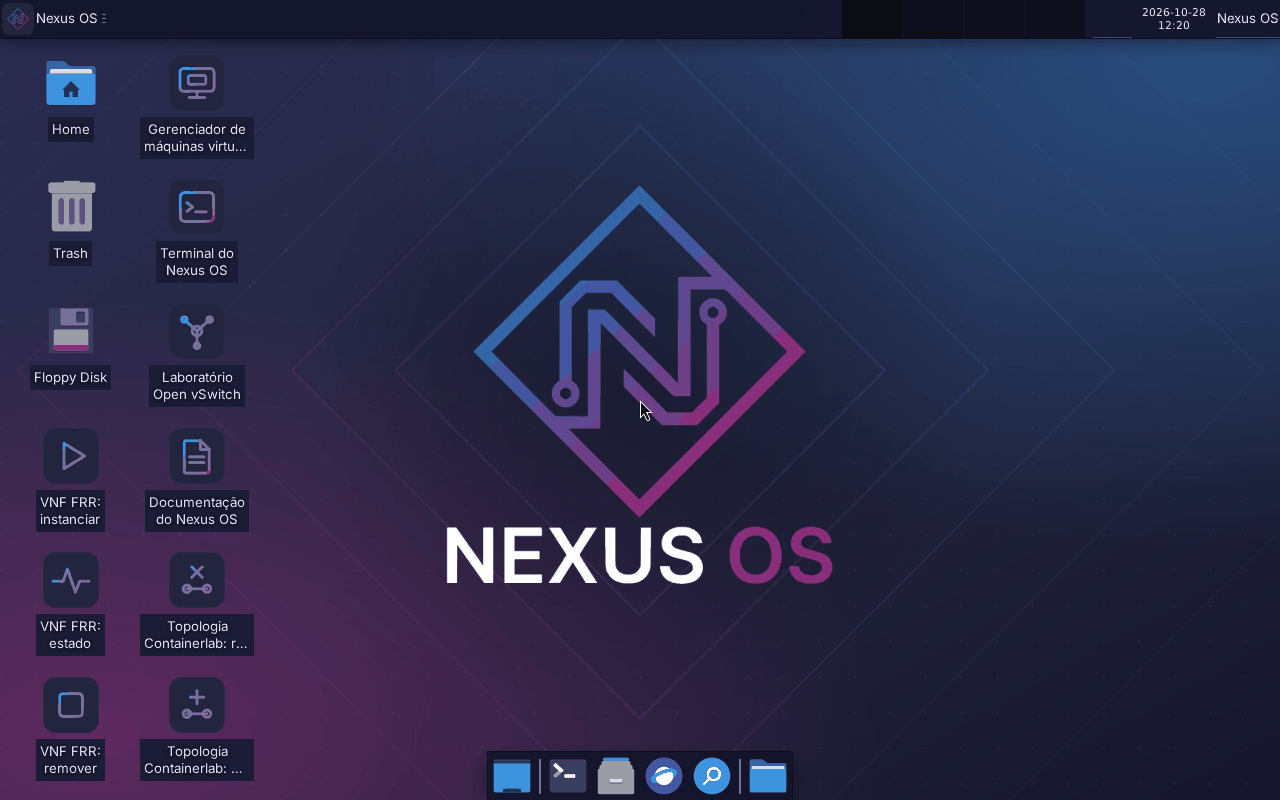
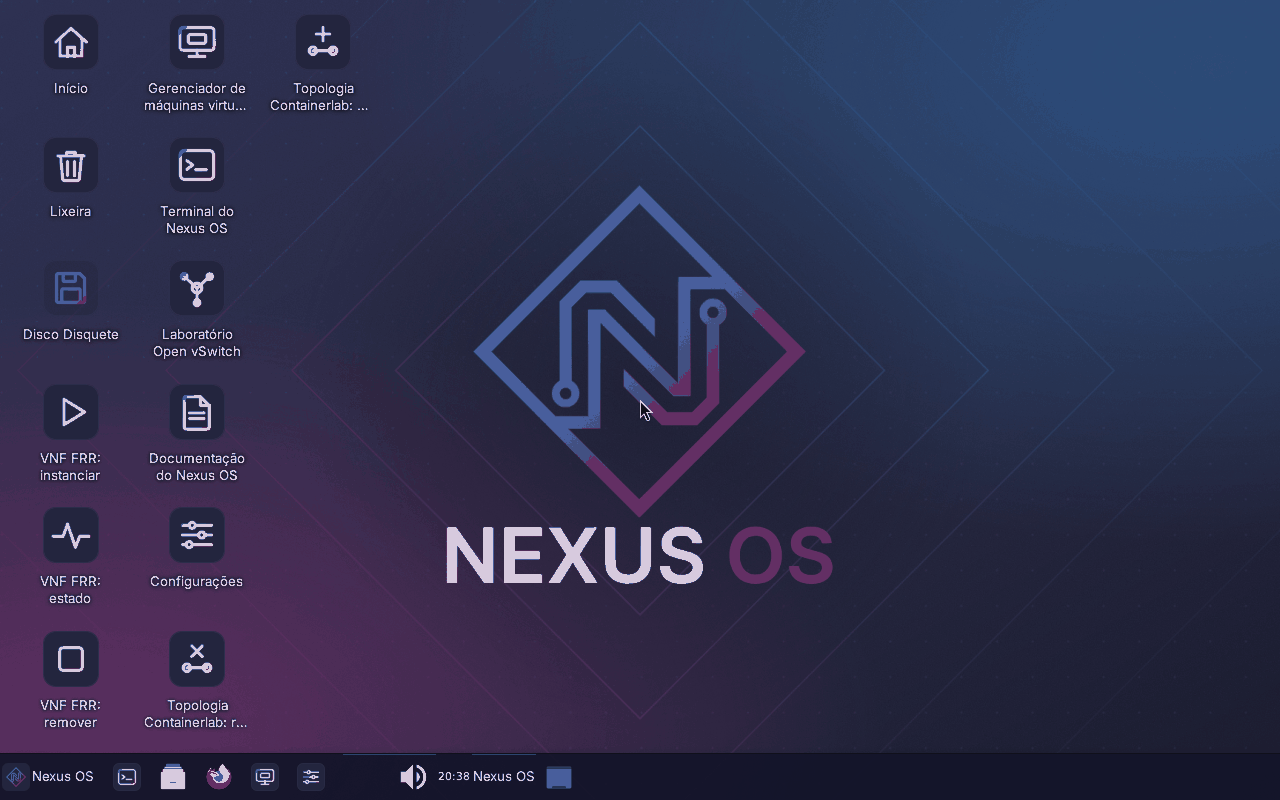
docs: RC2 da rodada 3 com requisitos medidos, capturas novas e tamanho da ISO (F3.17, F3.18)
ISO de 1773174784 bytes (build limpo de d9c40b8, SHA256 391734920c...), RAM
recomendada 2560 MiB, mínimo dos smokes 1792 MiB, sessão em 23 s e smoke desktop
sem KVM OK em 1196 s. rc2.md, requisitos.md, README, gui, branding, manual e
integracao-iso atualizados; capturas de login e sessão refeitas; manual e
checklist com 2560 MiB nos comandos de criação da VM.

Changed region(s): [[0.0, 0.0, 1.0, 1.0], [0.3438, 0.3438, 0.6562, 0.75], [0.2188, 0.0938, 0.2812, 0.1562]]

diff --git a/docs/rc2.md b/docs/rc2.md
@@ -1,23 +1,23 @@
 # RC2 do Nexus OS (F3.17 e F3.18)
 
-Segunda release candidate: a RC1 (núcleo da stack) mais o **ambiente gráfico** XFCE com login automático, os 9 atalhos dos componentes e a identidade visual do Nexus OS. Não há tag Git nesta fase: a tag é do congelamento da ISO (F4.6).
+Segunda release candidate: a RC1 (núcleo da stack) mais o **ambiente gráfico** XFCE com login automático, os 10 atalhos dos componentes, a identidade visual do Nexus OS, a barra única embaixo como a do Windows, o idioma português do Brasil e programas prontos para uso (LibreOffice, Wireshark, VLC, GIMP, Inkscape, KeePassXC e mais). Não há tag Git nesta fase: a tag é do congelamento da ISO (F4.6).
 
 ## Identificação
 
 | Item | Valor |
 | --- | --- |
 | Arquivo | `dist/nexus-os-rc2-amd64.iso` (cópia da ISO do build limpo, com `.sha256` regenerado para esse nome) |
-| Commit do build | `007f7ba0b53e74f4c16d4868cf0bbd1a1be768ad` (clone novo de `origin/marcos`) |
+| Commit do build | `d9c40b832848dd0bad96b66443f60ab00c3e968d` (clone novo de `origin/marcos`) |
 | Data | 2026-10-28 |
-| Tamanho | 1295843328 bytes |
[1 lines of base64/hex data omitted]
-| Tempo do build | 703 s, um comando (`sudo scripts/build-iso.sh`), terminou com `Build completed successfully` |
+| Tamanho | 1773174784 bytes |
[1 lines of base64/hex data omitted]
+| Tempo do build | 1164 s, um comando (`sudo scripts/build-iso.sh`), terminou com `Build completed successfully` |
 | Ambiente do build | Debian 13 em VM Hyper-V com KVM, 4 vCPU, 6 GB estáticos |
 | Onde fica | na máquina do responsável (VM de build, pasta `dist/` do clone, fora do Git) |
 
-Esta é a **segunda geração da RC2**: a primeira (commit `7ddf021`, SHA256 `0692c04a...`, 1268842496 bytes) tinha o tema Greybird, os ícones Tango e uma marca desenhada à parte; depois de testar a ISO numa VM do Hyper-V, a identidade foi refeita com a logo original, o tema Nexus-Dark, ícones Papirus-Dark e fonte Inter (F3.17), e o vídeo do Hyper-V Geração 1 passou a ser fixado no `/dev/dri/card0`. Todos os números abaixo são da ISO nova.
+Esta é a **terceira geração da RC2**. A primeira (commit `7ddf021`) tinha o tema Greybird e ícones Tango; a segunda (commit `007f7ba`, SHA256 `a21a7eb9...`, 1295843328 bytes) trouxe a logo original, o tema Nexus-Dark, os ícones Papirus-Dark e a fonte Inter. Depois de a segunda ser testada no Hyper-V Geração 1, a terceira refez a barra (uma só, embaixo, com a lista de janelas), criou o tema de ícones Nexus, tirou as faixas dos fundos, trocou o menu de boot, passou o sistema para português do Brasil com teclado ABNT2, fuso de Brasília e nome de máquina `nexus-os`, acrescentou os programas (veja [gui.md](gui.md), "Programas incluídos"), a documentação em HTML, o atalho Configurações e a tecla Print. Todos os números abaixo são da ISO nova.
 
-Os documentos desta pasta que entram na ISO (`/usr/share/nexus-os/docs`) são os do commit do build. `rc2.md` e `requisitos.md` (seção "Com ambiente gráfico") têm o SHA256 da ISO e por isso nascem depois dela: a ISO não os contém.
+Os documentos desta pasta que entram na ISO (`/usr/share/nexus-os/docs`) são os do commit do build. `rc2.md` e `requisitos.md` (seção "Com ambiente gráfico") têm o SHA256 da ISO e por isso nascem depois dela: a ISO não os contém. Depois do build entraram só três ajustes de teste (`ce73989`, e os commits que dão bit de execução aos testes e sobem a espera por atalho para 300 s): a ISO tem a cópia anterior desses scripts, e o comportamento é o mesmo.
 
 ## Build limpo com um comando
 
@@ -25,9 +25,9 @@ Clone novo de `origin/marcos` em pasta nova, depois só `sudo scripts/build-iso.
 
 | Item | Valor |
 | --- | --- |
-| Tempo | 703 s (com o clone) |
-| Tamanho | 1295843328 bytes, +374145024 sobre a RC1 (921698304) |
-| Origem do aumento | desktop XFCE, `firefox-esr`, `virt-manager`, `lightdm` e dependências (+338427904 na F3.15 e F3.16) e a identidade visual (+35717120: tema de ícones `papirus-icon-theme`, fonte `fonts-inter` e as imagens, veja [branding.md](branding.md)) |
+| Tempo | 1164 s (com o clone) |
+| Tamanho | 1773174784 bytes, +851476480 sobre a RC1 (921698304) e +477331456 sobre a RC2 anterior (1295843328) |
+| Origem do aumento sobre a RC2 anterior | LibreOffice, Wireshark, VLC, GIMP, Inkscape, KeePassXC, ferramentas de rede, pacotes de idioma e os demais de `nexus-desktop.list.chroot` ([gui.md](gui.md)); o tema de ícones Nexus e os fundos pesam pouco ([branding.md](branding.md)) |
 
 ## Validação da RC2
 
@@ -35,33 +35,35 @@ Todas as execuções abaixo são **com KVM**, exceto a indicada, na VM de build 
 
 | Teste | Resultado |
 | --- | --- |
-| `tests/run-fase3.sh dist/nexus-os-rc2-amd64.iso` | `OK: tests/run-fase3.sh (9 testes)` em 270 s: `lint-repo`, `docs`, `gui-spec`, `atalhos`, `identidade`, `iso` (36 s), `iso-smoke all`, `requisitos` e `manual` |
-| `iso-smoke all` dentro do `run-fase3.sh`, 4096 MiB | `OK: 8 teste(s) sem falha em 135 s` (`desktop` 50 s); repouso 1164 MiB, pico 1452 MiB |
-| `iso-smoke all`, `NEXUS_SMOKE_MEM=4096` (coleta do pico) | `OK: 8 teste(s) sem falha em 141 s` (`desktop` 53 s); pico 1439 MiB |
-| `iso-smoke all`, `NEXUS_SMOKE_MEM=2048` (RAM recomendada, validação) | `OK: 8 teste(s) sem falha em 129 s` (`desktop` 51 s); pico 1296 MiB |
-| `tests/manual.sh` | `OK: 12 bloco(s) do manual na ISO` em 93 s (8 blocos do núcleo e 4 do desktop) |
-| Smoke `desktop` **sem KVM** (`NEXUS_SMOKE_KVM=0 NEXUS_SMOKE_SMP=1 NEXUS_SMOKE_MEM=2048`) | `OK: 1 teste(s) sem falha em 505 s`, `desktop=244s`; repouso 811 MiB, pico 1303 MiB |
-| Mínimos de RAM e tempo até a sessão (20 s) | [requisitos.md](requisitos.md), seção "Com ambiente gráfico" |
+| `tests/run-fase3.sh dist/nexus-os-rc2-amd64.iso` | `OK: tests/run-fase3.sh (9 testes)`: `lint-repo`, `docs`, `gui-spec`, `atalhos`, `identidade`, `iso` (36 s), `iso-smoke all`, `requisitos` e `manual` |
+| `iso-smoke all` dentro do `run-fase3.sh`, 4096 MiB | `OK: 8 teste(s) sem falha em 135 s` (`desktop` 53 s); repouso 1127 MiB, pico 1786 MiB |
+| `iso-smoke all`, `NEXUS_SMOKE_MEM=4096` (coleta do pico) | `OK: 8 teste(s) sem falha em 181 s` (`desktop` 64 s); pico 1827 MiB |
+| `iso-smoke all`, `NEXUS_SMOKE_MEM=2560` (RAM recomendada, validação) | `OK: 8 teste(s) sem falha em 172 s` (`desktop` 66 s); pico 1722 MiB |
+| `tests/manual.sh` | `OK: 13 bloco(s) do manual na ISO` em 94 s |
+| Smoke `desktop` **sem KVM** (`NEXUS_SMOKE_KVM=0 NEXUS_SMOKE_SMP=1 NEXUS_SMOKE_MEM=2048`, espera por atalho de 300 s) | `OK: 1 teste(s) sem falha em 1196 s`, `desktop=782s`; repouso 836 MiB, pico 1707 MiB. Com a espera de 150 s o teste falhou: sem KVM o `nexus-vnf-up` passa de 150 s |
+| Smoke `rede` (QEMU com `-nic user`, script fora do repositório) | o NetworkManager pegou `10.0.2.15/24` por DHCP em `ens3`, rota padrão por `10.0.2.2`, DNS e `HTTP/1.1 200 OK` em `deb.debian.org`; nome da máquina `nexus-os` |
+| Menu de boot, BIOS (isolinux) e UEFI (GRUB, OVMF) | título "Nexus OS", logo e entradas em português; o boot inicia sozinho depois de 5 s |
+| Mínimos de RAM e tempo até a sessão (23 s) | [requisitos.md](requisitos.md), seção "Com ambiente gráfico" |
 
-Identidade visual na ISO: o smoke `desktop` confere o papel de parede padrão do `user` (`/usr/share/backgrounds/nexus-os/papel-de-parede.png`, lido pelo `xfconf-query` do monitor ativo), os temas GTK, de ícones e de janelas (Nexus-Dark, Papirus-Dark e Nexus-Dark), o título "Nexus OS" no menu e o nome completo "Nexus OS" do usuário. Capturas de tela da sessão e do login em [branding.md](branding.md).
+O smoke `desktop` confere, além do que já conferia: a barra única embaixo (`tasklist`, sem `pager`, uma área de trabalho, janela do `xfce4-panel` na parte de baixo da tela), o idioma `pt_BR.UTF-8`, o fuso `America/Sao_Paulo`, o teclado `br`, o nome da máquina `nexus-os`, a tela sem bloqueio, o programa padrão de `.md`, texto, PDF, imagem e HTML, a presença dos programas, o `docs-html`, o grupo `wireshark` e o `dumpcap`, a tecla Print e os 10 atalhos executados (incluindo documentação no Firefox e Configurações). Os temas conferidos são Nexus-Dark (GTK e janelas) e Nexus (ícones).
 
-Mutações: M1 (SVG com tag sem fechar), M2 (licença removida de `docs/branding.md`) e M5 (logo da ISO diferente da original de `assets/`) fazem o `tests/identidade.sh` falhar; M3 (`tests/desktop.sh` esperando outro papel de parede, por `--extra`) dá `FALHA: papel de parede do Nexus OS ausente`; M4 (comando inexistente num bloco do manual, feita na primeira geração da RC2) dá `FALHA: smoke com falhas: ... NEXUS-SMOKE-END manual 127`; e a remoção de uma linha numérica de `requisitos.md` faz o `tests/requisitos.sh` falhar.
-
-Ordem dos REDs, antes da implementação: `tests/identidade.sh` sem arquivos, `tests/requisitos.sh` e `tests/docs.sh` sem a seção nova e o smoke `desktop` na ISO anterior (`FALHA: papel de parede do Nexus OS ausente`). Os testes acharam três bugs: a chave errada do papel de parede do xfdesktop (o smoke passava, a captura mostrava o papel de parede do XFCE), o manual com a contagem antiga de 7 testes no `smoke.list` e o `lint-repo.sh` tratando o gerador em Python como shell. O teste na VM do Hyper-V Geração 1 achou o bug do vídeo (`lightdm` em laço, `Cannot run in framebuffer mode`), que nenhum teste em QEMU podia pegar e que o `20-hyperv.conf` corrige.
+Achados dos testes (não foram feitas mutações novas nesta geração): o `light-locker` vinha como recomendação do `lightdm` e o teste de tela sem bloqueio o pegou (o hook `0600` passou a removê-lo); o ID do Wireshark no `mimeapps.list` estava errado e foi corrigido pela conferência no chroot; o `shellcheck` acusou SC2015 em `tests/desktop.sh`; o `run-fase3.sh` falhou com `Permissão negada` porque três testes estavam sem bit de execução no Git (corrigido). Os REDs vieram antes: `tests/atalhos.sh`, `tests/identidade.sh` e `tests/docs.sh` falharam com `FALHA:` antes de qualquer implementação.
 
 ## Ambiente
 
-Debian 13 em VM Hyper-V com KVM (`/dev/kvm`), 4 vCPU, 6 GB de RAM estáticos; live-build do Debian 13; QEMU do Debian 13 com `-vga std`, `-nic none` e 2 vCPU no guest. Todas as medições são com KVM, salvo a linha "sem KVM".
+Debian 13 em VM Hyper-V com KVM (`/dev/kvm`), 4 vCPU, 6 GB de RAM estáticos; live-build do Debian 13; QEMU do Debian 13 com `-vga std`, `-nic none` (e `-nic user` só no teste de rede) e 2 vCPU no guest. Todas as medições são com KVM, salvo a linha "sem KVM".
 
 ## Limitações e riscos conhecidos
 
 - **`nexus-smoke.service` continua na RC2:** a unidade que executa como root o conteúdo de um CD `NEXUS_SMOKE` não foi removida. A decisão de removê-la ou condicioná-la é do congelamento da ISO (F4.6; issue 32).
-- A reprodução por uma segunda pessoa, a execução do roteiro humano do desktop (parte H de [checklist-teste-documentacao.md](checklist-teste-documentacao.md)) e a premissa 1 nas máquinas dos demais integrantes continuam pendentes. Nada desta RC conta como tal.
-- O desktop abriu numa VM do Hyper-V Geração 1 da primeira geração da RC2, mas só depois de a configuração de vídeo ser digitada à mão no console; a **ISO desta geração, com o `20-hyperv.conf`, ainda não foi iniciada no Hyper-V** (issue 55). VirtualBox, Geração 2 e vídeo real também não foram iniciados. O papel de parede foi conferido só no monitor `Virtual-1` do QEMU (issue 56).
-- Mínimo de RAM: com 1536 MiB o `all` passa, mas o `desktop` leva 82 s; com 1280, 1024 e 768 MiB falha. O `tests/iso.sh` chega ao `login:` com 512 MiB, sem provar a sessão gráfica.
-- Os fluxos interativos (clique nos ícones, terminal esperando Enter, VM criada pelo `virt-manager`) não foram exercitados: os atalhos foram lançados pelo `gtk-launch` com `NEXUS_ATALHO_TESTE=1`.
-- A barra da tela de login mostra o nome de máquina `debian` e o menu de boot (isolinux) ainda mostra "Debian GNU/Linux" e o capacete do live-build ([branding.md](branding.md), "Problemas conhecidos"; issue 57).
+- A reprodução por uma segunda pessoa e a execução do roteiro humano do desktop (parte H de [checklist-teste-documentacao.md](checklist-teste-documentacao.md)) continuam pendentes. Nada desta RC conta como tal.
+- Uma versão anterior da RC2 subiu sozinha no Hyper-V Geração 1, a 1080p em tela cheia e em janela de 1024x768; a **ISO desta geração ainda não foi iniciada no Hyper-V** (issue 55). VirtualBox, Geração 2 e vídeo real também não. O papel de parede foi conferido só no monitor `Virtual-1` do QEMU (issue 56).
+- Mínimo de RAM: com 1792 MiB o `all` passa, mas o `desktop` leva 202 s; com 1536, 1280 e 1024 MiB falha. A recomendada é 2560 MiB. O `tests/iso.sh` chega ao `login:` com 512 MiB, sem provar a sessão gráfica.
+- A ISO tem 1691 MiB: cabe em DVD e pendrive, não em CD.
+- Os fluxos interativos (clique nos ícones, terminal esperando Enter, VM criada pelo `virt-manager`, abrir os programas novos) não foram exercitados: os atalhos foram lançados pelo `gtk-launch` com `NEXUS_ATALHO_TESTE=1` e os programas só tiveram a presença conferida.
+- O Hyper-V precisa de `Connect-VMNetworkAdapter` para a VM ter internet ([manual.md](manual.md)); a ISO só foi testada com rede no QEMU.
+- A barra da tela de login mostra o relógio e o nome de máquina (agora `nexus-os`).
 - A RAM em repouso varia entre execuções (issue 33); o desligamento da live pede ENTER (issue 34).
 - A RC2 não tem tag Git: a tag é do congelamento.
 
-Falhas e limitações viram issues com o ID da tarefa no título: 54 (roteiro humano do desktop), 55 (Hyper-V e VirtualBox), 56 (papel de parede em outros monitores) e 57 (nome de máquina no login).
+Falhas e limitações viram issues com o ID da tarefa no título: 54 (roteiro humano do desktop), 55 (Hyper-V e VirtualBox), 56 (papel de parede em outros monitores) e 57 (nome de máquina no login, resolvido nesta geração: a máquina agora é `nexus-os`).

diff --git a/docs/requisitos.md b/docs/requisitos.md
@@ -21,43 +21,45 @@ Recomendação: **1536 MiB de RAM** e uma mídia (CD, DVD, pendrive ou ISO anexa
 
 ## Com ambiente gráfico
 
-Medido em 2026-10-28, **com KVM**, na ISO da RC2 (commit `007f7ba`, [rc2.md](rc2.md)), guest QEMU com 2 vCPU, `-vga std` e sem rede. As duas execuções completas do `nexus-smoke all` (8 testes, o último é o `desktop`) seguem o método abaixo: a primeira com 4096 MiB coleta o pico e a segunda, com a RAM recomendada, valida.
+Medido em 2026-10-28, **com KVM**, na ISO da RC2 (build limpo do commit `d9c40b8`, [rc2.md](rc2.md)), guest QEMU com 2 vCPU, `-vga std` e sem rede. As execuções completas do `nexus-smoke all` (8 testes, o último é o `desktop`) seguem o método abaixo: a primeira, com 4096 MiB, coleta o pico e a segunda, com a RAM recomendada, valida.
 
 | Item | Valor | Unidade | Como foi medido |
 | --- | --- | --- | --- |
-| Desktop: RAM em repouso | 1044 | MiB | média de duas execuções, cada uma com 3 leituras de `free -m` (`used`) a partir de 30 s depois de a sessão ficar ativa: 1043 e 1045 MiB |
-| Desktop: RAM de pico | 1439 | MiB | maior `used` durante `nexus-smoke all` com 4096 MiB (8 testes, amostrado a cada 5 s) |
-| Desktop: RAM recomendada | 2048 | MiB | `ceil((pico + 512) / 512) * 512`, validada com `NEXUS_SMOKE_MEM=2048` (abaixo) |
-| Desktop: disco do root em memória | 27 | MiB | `df -m /` (overlay sobre tmpfs; a live não usa disco do guest); o Docker segue com 193 MiB |
-| Desktop: ISO (bytes) | 1295843328 | bytes | tamanho do arquivo (1236 MiB) |
-| Desktop: diferença da ISO para a RC1 (bytes) | 374145024 | bytes | 1295843328 menos 921698304 (+40,6%) |
-| Desktop: tempo até a sessão (s) | 20 | s | início do último processo do desktop (`xfce4-session`, `xfce4-panel`, `xfwm4`, `xfdesktop`) em segundos de uptime do guest: 20,4 e 20,1 |
-| Desktop: mínimo de RAM do tests/iso.sh (MiB) | 512 | MiB | `NEXUS_ISO_MEM`: 1024, 768 e 512 chegam ao `login:` em 33 s; valores abaixo de 512 não foram testados |
-| Desktop: mínimo de RAM dos smokes (MiB) | 1536 | MiB | `NEXUS_SMOKE_MEM` com o `all`: 1536 passa; 1280, 1024 e 768 falham |
[1 lines of base64/hex data omitted]
+| Desktop: RAM em repouso | 1129 | MiB | média de duas execuções, cada uma com 3 leituras de `free -m` (`used`) a partir de 30 s depois de a sessão ficar ativa: 1140 e 1118 MiB |
+| Desktop: RAM de pico | 1827 | MiB | maior `used` durante `nexus-smoke all` com 4096 MiB (8 testes, amostrado a cada 5 s) |
+| Desktop: RAM recomendada | 2560 | MiB | `ceil((pico + 512) / 512) * 512`, validada com `NEXUS_SMOKE_MEM=2560` (abaixo) |
+| Desktop: disco do root em memória | 28 | MiB | `df -m /` (overlay sobre tmpfs; a live não usa disco do guest); o Docker segue com 193 MiB |
+| Desktop: ISO (bytes) | 1773174784 | bytes | tamanho do arquivo (1691 MiB) |
+| Desktop: diferença da ISO para a RC1 (bytes) | 851476480 | bytes | 1773174784 menos 921698304 (+92,4%) |
+| Desktop: tempo até a sessão (s) | 23 | s | início do último processo do desktop (`xfce4-session`, `xfce4-panel`, `xfwm4`, `xfdesktop`) em segundos de uptime do guest: 23,7 e 22,6 |
+| Desktop: mínimo de RAM do tests/iso.sh (MiB) | 512 | MiB | `NEXUS_ISO_MEM`: 1024, 768 e 512 chegam ao `login:` em 36 s; valores abaixo de 512 não foram testados |
+| Desktop: mínimo de RAM dos smokes (MiB) | 1792 | MiB | `NEXUS_SMOKE_MEM` com o `all`: 1792 passa (307 s, o `desktop` leva 202 s); 1536, 1280 e 1024 falham |
[1 lines of base64/hex data omitted]
 
-Recomendação com o desktop: **2048 MiB de RAM** para a VM e uma mídia de pelo menos 1236 MiB. O desktop soma 248 MiB ao repouso medido na RC1 (796 MiB) e 626 MiB ao pico (813 MiB), por causa do XFCE, do tema de ícones Papirus-Dark e da fonte Inter (veja "Resultado").
+Recomendação com o desktop: **2560 MiB de RAM** para a VM e uma mídia de pelo menos 1691 MiB (cabe em DVD e pendrive, não em CD). O desktop e os programas somam 333 MiB ao repouso medido na RC1 (796 MiB) e 1014 MiB ao pico (813 MiB), por causa do XFCE, do tema de ícones, da fonte Inter e dos programas do desktop (LibreOffice, Wireshark, GIMP e outros; veja "Resultado").
 
 ### Execuções completas do `all`
 
 | RAM do guest (MiB) | Resultado | Repouso | Pico |
 | --- | --- | --- | --- |
-| 4096 (coleta do pico) | `OK: 8 teste(s) sem falha em 141 s`, `desktop=53s` | 1140 MiB | 1439 MiB |
-| 2048 (recomendada) | `OK: 8 teste(s) sem falha em 129 s`, `desktop=51s` | 867 MiB | 1296 MiB |
-| 1536 | `OK` em 165 s, `desktop=82s` | 835 MiB | 1319 MiB |
-| 1280 | `FALHA: NEXUS-SMOKE-DONE não apareceu em 400 s`; com limite de 900 s terminou com `DONE 8 1` e o teste `desktop` com erro | | |
+| 4096 (coleta do pico) | `OK: 8 teste(s) sem falha em 181 s`, `desktop=64s` | 1115 MiB | 1827 MiB |
+| 2560 (recomendada) | `OK: 8 teste(s) sem falha em 172 s`, `desktop=66s` | 950 MiB | 1722 MiB |
+| 2048 | `OK` em 160 s, `desktop=78s` | 871 MiB | 1730 MiB |
+| 1792 | `OK` em 307 s, `desktop=202s` | 853 MiB | 1674 MiB |
+| 1536 | `FALHA: NEXUS-SMOKE-DONE não apareceu em 400 s` | | |
+| 1280 | `FALHA: NEXUS-SMOKE-DONE não apareceu em 400 s` | | |
 | 1024 | `FALHA: NEXUS-SMOKE-DONE não apareceu em 400 s` | | |
-| 768 | `FALHA: NEXUS-SMOKE-DONE não apareceu em 400 s` | | |
+| 768 | não medido (já falhava em 1024) | | |
 
-Uma execução por valor. Com 1536 MiB o `all` passa, mas o `desktop` leva 82 s contra 51 s com 2048 MiB: é o mínimo, não um valor confortável. O repouso de 1140 MiB do primeiro `all` é lido ainda no fim do boot, com o desktop subindo; os 1044 MiB acima são lidos com a sessão estável. Na RC2 anterior (só com o tema Greybird e os ícones Tango) o `all` ainda passava com 1024 MiB; o tema de ícones e a fonte novos subiram o mínimo.
+Uma execução por valor. Com 1792 MiB o `all` passa, mas o `desktop` leva 202 s contra 66 s com 2560 MiB: é o mínimo, não um valor confortável. O repouso de 1115 MiB do primeiro `all` é lido ainda no fim do boot, com o desktop subindo; os 1129 MiB acima são lidos com a sessão estável. A ISO anterior da RC2 (sem os programas novos) passava com 1536 MiB; LibreOffice, Wireshark, VLC, GIMP, Inkscape e o resto subiram o mínimo.
 
 ### Mínimo do `tests/iso.sh`
 
-O `tests/iso.sh` só espera o `login:` na serial. Medido com `NEXUS_ISO_MEM`, uma execução por valor, com KVM: 1024, 768 e 512 MiB chegam ao `login:` em 33 s, com o SHA256 conferido. O menor valor testado que passa é 512 MiB. O padrão do script continua 2048 MiB.
+O `tests/iso.sh` só espera o `login:` na serial. Medido com `NEXUS_ISO_MEM`, uma execução por valor, com KVM: 1024, 768 e 512 MiB chegam ao `login:` em 36 s, com o SHA256 conferido. O menor valor testado que passa é 512 MiB. O padrão do script continua 2048 MiB.
 
 ### Limitações com o desktop
 
-- Medido só com KVM, em um ambiente (VM de build no Hyper-V). Sem KVM, o smoke `desktop` passou uma vez na RC2 anterior (442 s no total, 1 vCPU, 2048 MiB), veja [rc2.md](rc2.md); o resto não foi repetido sem KVM.
+- Medido com KVM, em um ambiente (VM de build no Hyper-V). Sem KVM, o smoke `desktop` passou na RC2 atual: `OK` em 1196 s, `desktop=782s`, 1 vCPU, 2048 MiB, repouso 836 MiB, pico 1707 MiB (`NEXUS_SMOKE_KVM=0 NEXUS_SMOKE_SMP=1 NEXUS_SMOKE_MEM=2048`, com a espera por atalho de 300 s); o resto não foi repetido sem KVM.
 - Uma execução por valor de RAM; a RAM em repouso varia entre execuções (veja a issue 33).
 - O `tests/iso.sh` só chega ao `login:` na serial: não prova que a sessão gráfica sobe com 512 MiB. O mínimo que cobre a sessão e todos os componentes é o dos smokes, 1536 MiB.
 - Hyper-V (Geração 1 e 2), VirtualBox e vídeo real não foram medidos com o desktop.

diff --git a/docs/branding.md b/docs/branding.md
@@ -75,8 +75,8 @@ A licença é a do repositório, GPL-3.0-or-later ([LICENSE](../LICENSE)). Os ca
 Linhas acrescentadas a arquivos que já existiam (mesma licença do repositório):
 
 - `live-build/config/includes.chroot/etc/live/config.conf.d/nexus.conf`: `LIVE_USER_FULLNAME="Nexus OS"`, o nome completo do usuário `user` mostrado na barra (o padrão do live-config é "Debian Live user").
-- `live-build/config/package-lists/nexus-desktop.list.chroot`: `papirus-icon-theme` e `fonts-inter`.
-- Os 9 atalhos `nexus-*.desktop` (menu e área de trabalho): a chave `Icon=` aponta para os ícones próprios acima.
+- `live-build/config/package-lists/nexus-desktop.list.chroot`: `papirus-icon-theme`, `fonts-inter` e, na rodada 3, os programas do desktop (veja [gui.md](gui.md), "Programas incluídos").
+- Os 10 atalhos `nexus-*.desktop` (menu e área de trabalho): a chave `Icon=` aponta para os ícones próprios acima.
 
 ## Arquivos de pacotes do Debian
 
@@ -98,14 +98,14 @@ O que vem de pacote do Debian 13 `main` mantém a licença do pacote (lida em `/
 
 | Item | Valor |
 | --- | --- |
-| ISO sem a identidade (parte 9, F3.15 e F3.16) | 1260126208 bytes |
-| ISO com a identidade (RC2) | 1295843328 bytes |
-| Diferença | +35717120 bytes (34,1 MiB), dentro do limite de 40 MB para tema e ícones |
-| Origem da diferença | `papirus-icon-theme` (22,6 MB no `.deb`, 187 MB instalados), `fonts-inter` (4,6 MB no `.deb`) e as imagens do Nexus OS |
+| ISO da RC2 anterior (identidade com Papirus-Dark e Inter, sem os programas novos) | 1295843328 bytes |
+| ISO da RC2 atual (rodada 3) | 1773174784 bytes |
+| Diferença | +477331456 bytes (455,2 MiB): quase tudo são os programas (LibreOffice, Wireshark, VLC, GIMP, Inkscape e demais); o tema de ícones Nexus, os fundos com ruído e o menu de boot somam poucos MiB. A estimativa de download feita antes do build era de cerca de 380 MB |
+| Origem da diferença | os pacotes dos programas e os de idioma; o `papirus-icon-theme` (22,6 MB no `.deb`) e a fonte Inter já vinham da RC2 anterior |
 
 ## Como a identidade é aplicada
 
-- **Login:** `/etc/lightdm/lightdm-gtk-greeter.conf` aponta `background` para `tela-de-login.png` (a logo original), `theme-name` para Nexus-Dark, `icon-theme-name` para Papirus-Dark e `default-user-image` para a marca. O `gtk.css` estiliza a janela de login (`#login_window`). Com o login automático (padrão da ISO) a tela de login não aparece; para vê-la, inicie com o parâmetro de boot `live-config.noautologin`.
+- **Login:** `/etc/lightdm/lightdm-gtk-greeter.conf` aponta `background` para `tela-de-login.png` (a logo original), `theme-name` para Nexus-Dark, `icon-theme-name` para Nexus e `default-user-image` para a marca. O `gtk.css` estiliza a janela de login (`#login_window`). Com o login automático (padrão da ISO) a tela de login não aparece; para vê-la, inicie com o parâmetro de boot `live-config.noautologin`.
 - **Sessão:** o `xfce4-desktop.xml` do `/etc/xdg` é o padrão do XFCE para qualquer usuário novo, inclusive o `user` que o live-config cria no boot; o `xsettings.xml` (tema, ícones e fonte) e o painel (título "Nexus OS", ícone da marca e altura) são ajustados no hook; o `xfwm4.xml` define o tema das janelas. O live-config só cria o usuário a partir do `/etc/skel` e não toca nesses arquivos de `/etc/xdg`: o smoke `desktop` confirma em boot limpo, como o `user` recém-criado, o papel de parede, os temas, o título do menu e o nome completo.
 - **Papel de parede em outros monitores:** o xfdesktop guarda uma configuração por monitor e por área de trabalho. O padrão cobre o monitor `Virtual-1` (o vídeo das VMs do QEMU) e os blocos `monitor0` e `monitor1`; o hook também registra o papel de parede como alternativa `desktop-background` do Debian, o que cobre o caminho padrão `/usr/share/images/desktop-base/default`.
 - **Vídeo no Hyper-V:** na Geração 1 o Xorg não sobe sem o `20-hyperv.conf` (o log mostra `Cannot run in framebuffer mode`); com ele fixando `/dev/dri/card0` a sessão abriu na VM do Hyper-V.
@@ -113,7 +113,7 @@ O que vem de pacote do Debian 13 `main` mantém a licença do pacote (lida em `/
 
 ## Como regenerar
 
-O `scripts/gerar-identidade.py` copia a logo original, recorta a marca, desenha os 9 ícones e os dois fundos e converte os fundos para PNG 1920x1080. Precisa de `python3` e `rsvg-convert` (pacote `librsvg2-bin`). Na VM de build, na raiz do repositório:
+O `scripts/gerar-identidade.py` copia a logo original, recorta a marca, desenha os 10 ícones dos atalhos, o tema de ícones Nexus, o fundo do menu de boot e os dois fundos e converte os fundos para PNG 1920x1080. Precisa de `python3` e `rsvg-convert` (pacote `librsvg2-bin`). Na VM de build, na raiz do repositório:
 
 ```bash
 sudo apt-get install -y librsvg2-bin
@@ -127,7 +127,7 @@ A saída é determinística. O tema das janelas sai de `scripts/gerar-tema-xfwm4
 As capturas usam o comando `screendump` do monitor do QEMU com `-vga std` (1280x800), convertido para PNG de 256 cores com o `python3-pil` (pacote `python3-pil`), com até 300 KB cada.
 
 - `docs/img/sessao.png`: a ISO iniciada normalmente; a captura foi feita com a sessão do `user` já aberta.
-- `docs/img/login.png`: a tela de login só aparece sem o login automático. A captura usou boot direto do kernel e do initrd da ISO com o parâmetro `live-config.noautologin`, só para essa captura; a ISO entregue não muda. O relógio e o nome de máquina `debian` que aparecem na barra do login são os do próprio boot.
+- `docs/img/login.png`: a tela de login só aparece sem o login automático. A captura usou boot direto do kernel e do initrd da ISO com o parâmetro `live-config.noautologin`, só para essa captura; a ISO entregue não muda. O relógio e o nome de máquina que aparecem na barra do login são os do próprio boot.
 
 ![Tela de login do Nexus OS](img/login.png)
 
@@ -135,9 +135,9 @@ As capturas usam o comando `screendump` do monitor do QEMU com `-vga std` (1280x
 
 ## Problemas conhecidos
 
-- A barra do login mostra o nome de máquina `debian` e o relógio, porque o `lightdm-gtk-greeter` os mostra sempre; o nome de máquina não foi alterado (issue 57).
+- A barra do login mostra o relógio e o nome de máquina (`nexus-os`), porque o `lightdm-gtk-greeter` os mostra sempre.
 - O `desktop-base` continua instalado (dependência do desktop) e traz o logotipo e os papéis de parede do Debian em `/usr/share`; nenhum é usado pelo Nexus OS.
-- O menu de boot (isolinux) ainda mostra o texto "Debian GNU/Linux" e o capacete do live-build: a identidade da F3.17 cobre o login e a sessão, não o menu de boot.
+- O menu de boot (isolinux e GRUB) agora tem a identidade do Nexus OS e contagem de 5 s; o texto "Automatic boot in N seconds..." do isolinux continua em inglês (vem do próprio syslinux).
 - O papel de parede padrão foi conferido no monitor `Virtual-1` do QEMU; em outros vídeos (Hyper-V e VirtualBox) ele depende do alternativo `desktop-background` e dos blocos `monitor0` e `monitor1` (issue 56).
 - O `20-hyperv.conf` fixa `/dev/dri/card0` para qualquer vídeo; em máquina com mais de uma placa o dispositivo certo pode ser outro.
 - Reprodução por segunda pessoa e a conferência em VirtualBox e em máquina física continuam pendentes.

diff --git a/docs/integracao-iso.md b/docs/integracao-iso.md
@@ -13,7 +13,7 @@ Contrato entre a receita do live-build e os componentes da Fase 3. Cada componen
 | `/usr/local/bin/nexus-vm` | link para `/usr/share/nexus-os/nfv/libvirt/nexus-vm.sh` | hook `0500-nexus-servicos.hook.chroot` |
 | `/usr/local/bin/nexus-vnf` | link para `/usr/share/nexus-os/nfv/nexus-vnf.sh` | hook `0500-nexus-servicos.hook.chroot` |
 | `/usr/local/bin/nexus-atalho` e `/usr/local/bin/nexus-atalhos-confiar` | `live-build/config/includes.chroot/usr/local/bin/` | `includes.chroot`; o hook dá `chmod 0755` (F3.16, veja [gui.md](gui.md)) |
-| `/usr/share/applications/nexus-*.desktop` e `/etc/skel/Desktop/nexus-*.desktop` | `live-build/config/includes.chroot/` | `includes.chroot` (9 atalhos, menu "Nexus OS" e área de trabalho do `user`) |
+| `/usr/share/applications/nexus-*.desktop` e `/etc/skel/Desktop/nexus-*.desktop` | `live-build/config/includes.chroot/` | `includes.chroot` (10 atalhos, menu "Nexus OS" e área de trabalho do `user`) |
 | `/etc/live/config.conf.d/nexus.conf` | `live-build/config/includes.chroot/etc/live/config.conf.d/nexus.conf` | `includes.chroot` (grupos do usuário `user`, lidos pelo live-config) |
 | `/usr/share/nexus-os/tests/smoke.list` | `tests/smoke.list` | cópia de `tests/` |
 
@@ -94,7 +94,7 @@ Sai com 0 só se o `DONE` apareceu com 0 falhas, todos os `END` têm código 0 e
 | F3.7 Containerlab | `containerlab` 0.81.1 (`.deb` oficial em `live-build/config/packages.chroot/`, SHA256 em `live-build/offline/containerlab.sha256`) | `nfv` (o `tests/nfv.sh` da F2.7, sem alteração) | ✅ `iso-smoke` OK com KVM no Hyper-V (18 s, sem rede, OSPF convergiu em 12 s); reprodução por segunda pessoa pendente |
 | F3.6 Orquestração NFVO/VNFM | nenhum (usa Docker, Containerlab e a imagem FRR já na ISO), script `nfv/nexus-vnf.sh` e topologia `labs/containerlab/vnf-frr.clab.yml` | `orquestracao` | ✅ `iso-smoke` OK com KVM no Hyper-V (9 s, sem rede); `all` com 7 testes OK em 75 s; reprodução por segunda pessoa pendente (veja [nfv.md](nfv.md)) |
 | F3.15 e F3.16 Desktop e atalhos | `xfce4`, `lightdm`, `xorg`, `firefox-esr`, `virt-manager` e os demais de `nexus-desktop.list.chroot` (veja [gui.md](gui.md)); 9 atalhos `nexus-*.desktop`, `nexus-atalho` | `desktop` (por último em `smoke.list`) | ✅ `iso-smoke ... all` (8 testes) OK com KVM em 120 s e `desktop` OK sem KVM (477 s com `ram`); ISO de 1260126208 bytes, build de 457 s; reprodução por segunda pessoa pendente |
-| F3.17 Identidade visual | `greybird-gtk-theme` 3.23.3-1; marca, papel de parede e fundo do login em `/usr/share/backgrounds/nexus-os/`, ícone `nexus-os`, configuração do `lightdm-gtk-greeter` e do XFCE em `/etc` (veja [branding.md](branding.md)); linhas da F3.17 no hook | `desktop` (papel de parede, tema, título do menu e nome do `user`) e `tests/identidade.sh` (estático) | ✅ smoke `desktop` OK com KVM em 42 s no `all`; ISO de 1295843328 bytes (+35717120 sobre a da F3.16: Papirus-Dark, fonte Inter e imagens); reprodução por segunda pessoa pendente |
+| F3.17 Identidade visual | `greybird-gtk-theme` 3.23.3-1; marca, papel de parede e fundo do login em `/usr/share/backgrounds/nexus-os/`, ícone `nexus-os`, configuração do `lightdm-gtk-greeter` e do XFCE em `/etc` (veja [branding.md](branding.md)); linhas da F3.17 no hook | `desktop` (papel de parede, tema, título do menu e nome do `user`) e `tests/identidade.sh` (estático) | ✅ smoke `desktop` OK com KVM em 42 s no `all`; rodada 3 da RC2 (barra inferior, tema de ícones Nexus, pt_BR, programas, menu de boot): ISO de 1773174784 bytes (+513048576 sobre a da F3.16, 1260126208), `all` OK com KVM em 172 s (2560 MiB); reprodução por segunda pessoa pendente |
 | F3.9 a F3.11 RC1 | todos os acima | `all` (os 7 testes) | ✅ build limpo em 516 s, 921698304 bytes; `all` OK com KVM em 69 s (4096 MiB) e 73 s (1536 MiB, RAM recomendada); reprodução por segunda pessoa e boot no Hyper-V pendentes (veja [rc1.md](rc1.md) e [requisitos.md](requisitos.md)) |
 
 ## Medições (23/10/2026, VM de build sem KVM)

diff --git a/docs/gui.md b/docs/gui.md
@@ -153,7 +153,7 @@ A ISO cresce 36%. O "repouso" do núcleo foi lido pelo `nexus-smoke` antes do pr
 
 F3.15 e F3.16, medidos em 27/10/2026 na VM de build do Hyper-V, **com KVM** (e uma vez **sem KVM**, indicado onde for o caso).
 
-- Pacotes: `live-build/config/package-lists/nexus-desktop.list.chroot` (`xfce4`, `xfce4-terminal`, `network-manager`, `network-manager-gnome`, `lightdm`, `lightdm-gtk-greeter`, `xorg`, `firefox-esr`, `virt-manager`, `desktop-file-utils`, `x11-utils`, `libgtk-3-bin`, `libglib2.0-bin`). Os quatro últimos servem ao smoke e aos atalhos: `desktop-file-validate`, `xwininfo`, `gtk-launch` e `gio`.
+- Pacotes (na F3.15; a lista atual, com os programas da rodada 3, está em "Programas incluídos"): `live-build/config/package-lists/nexus-desktop.list.chroot` (`xfce4`, `xfce4-terminal`, `network-manager`, `network-manager-gnome`, `lightdm`, `lightdm-gtk-greeter`, `xorg`, `firefox-esr`, `virt-manager`, `desktop-file-utils`, `x11-utils`, `libgtk-3-bin`, `libglib2.0-bin`). Os quatro últimos servem ao smoke e aos atalhos: `desktop-file-validate`, `xwininfo`, `gtk-launch` e `gio`.
 - Login automático e sessão padrão: nenhum arquivo próprio. O `0100-lightdm` do `live-config` já grava `autologin-user=user` e o `lightdm` do pacote é o `display-manager`; a sessão padrão é a do XFCE.
 - `nexus-smoke.service` não ganhou `After=lightdm.service`, porque o teste `desktop` espera por laço (limite de 120 s) o `lightdm`, a sessão e os processos do desktop, sem depender da ordem das unidades. Uma primeira versão com o `After=` também passou; foi retirado para o laço de espera ser exercitado de verdade.
 - Menu: categoria "Nexus OS" por `etc/xdg/menus/applications-merged/nexus-os.menu` e `usr/share/desktop-directories/nexus-os.directory`. A categoria dos atalhos é `X-Nexus-OS` (categoria própria precisa do prefixo `X-`).
@@ -232,6 +232,8 @@ Ficaram de fora, por decisão do grupo: Thunderbird (81 MB) e GParted (5 MB). O 
 | Sessão do `user` ativa, com KVM | já ativa quando o teste começou, com uptime do guest de 25,0 s |
 | Sessão do `user` ativa, sem KVM | já ativa quando o teste começou, com uptime de 258,8 s |
 | Smoke `desktop` sem KVM (`NEXUS_SMOKE_KVM=0 NEXUS_SMOKE_SMP=1 NEXUS_SMOKE_MEM=2048`) | `OK: 2 teste(s) sem falha em 477 s`, `desktop=161s`: os 9 atalhos da época executavam sem KVM |
+
+Rodada 3 da RC2 (ISO atual, build limpo do commit `d9c40b8`): ISO de 1773174784 bytes (+513048576 sobre a da tabela acima, por causa dos programas), build de 1164 s; `all` com 4096 MiB `OK` em 181 s (`desktop=64s`, repouso 1115 MiB, pico 1827 MiB) e com 2560 MiB `OK` em 172 s; sessão ativa em 23 s; smoke `desktop` sem KVM `OK` em 1196 s (`desktop=782s`). Os números completos e os mínimos de RAM estão em [requisitos.md](requisitos.md) e [rc2.md](rc2.md); os desta seção são da F3.15 e da F3.16.
 
 O uptime da sessão é um limite superior: a sessão pode ter ficado ativa antes do início do teste, porque o `nexus-smoke.service` só começa depois dos serviços dos componentes. A medição de repouso e do uptime vem de um script fora do repositório (`--extra`: espera a sessão, lê `free -m` 3 vezes com 30 s de atraso).
 

diff --git a/docs/checklist-teste-documentacao.md b/docs/checklist-teste-documentacao.md
@@ -315,13 +315,13 @@ Escolha **um** ambiente e anote qual na ficha H8: Hyper-V no Windows 11 Pro (sig
    ```
 
    O valor `Hash` deve ser igual ao de `docs/rc2.md` (maiúsculas e minúsculas não importam). Se for diferente, pare e anote como falha de H0.1.
-3. Crie e inicie a VM. Onde: PowerShell como administrador, um comando por vez (o bloco do manual, seção "Ambiente gráfico", "Iniciar com vídeo"). Troque `2048MB` pela RAM de H0.2 se ela for maior:
+3. Crie e inicie a VM. Onde: PowerShell como administrador, um comando por vez (o bloco do manual, seção "Ambiente gráfico", "Iniciar com vídeo"). Troque `2560MB` pela RAM de H0.2 se ela for maior:
 
    ```powershell
    $vm = "nexus-rc2-lab"
-   New-VM -Name $vm -Generation 1 -MemoryStartupBytes 2048MB -BootDevice CD -NoVHD
+   New-VM -Name $vm -Generation 1 -MemoryStartupBytes 2560MB -BootDevice CD -NoVHD
    Set-VMProcessor -VMName $vm -Count 2
-   Set-VMMemory -VMName $vm -DynamicMemoryEnabled $false -StartupBytes 2048MB
+   Set-VMMemory -VMName $vm -DynamicMemoryEnabled $false -StartupBytes 2560MB
    Add-VMDvdDrive -VMName $vm -Path "C:\HyperV\nexus-os-rc2-amd64.iso"
    Connect-VMNetworkAdapter -VMName $vm -SwitchName "Default Switch"
    Start-VM -Name $vm
@@ -338,7 +338,7 @@ Escolha **um** ambiente e anote qual na ficha H8: Hyper-V no Windows 11 Pro (sig
 3. Inicie a ISO com janela (terminal):
 
    ```bash
-   qemu-system-x86_64 -enable-kvm -cpu host -m 2048 -smp 2 -vga std -cdrom nexus-os-rc2-amd64.iso -boot d
+   qemu-system-x86_64 -enable-kvm -cpu host -m 2560 -smp 2 -vga std -cdrom nexus-os-rc2-amd64.iso -boot d
    ```
 
    Para ter internet na VM, acrescente `-nic user` ao comando. Deve abrir uma janela do QEMU com o menu de boot do Nexus OS.
